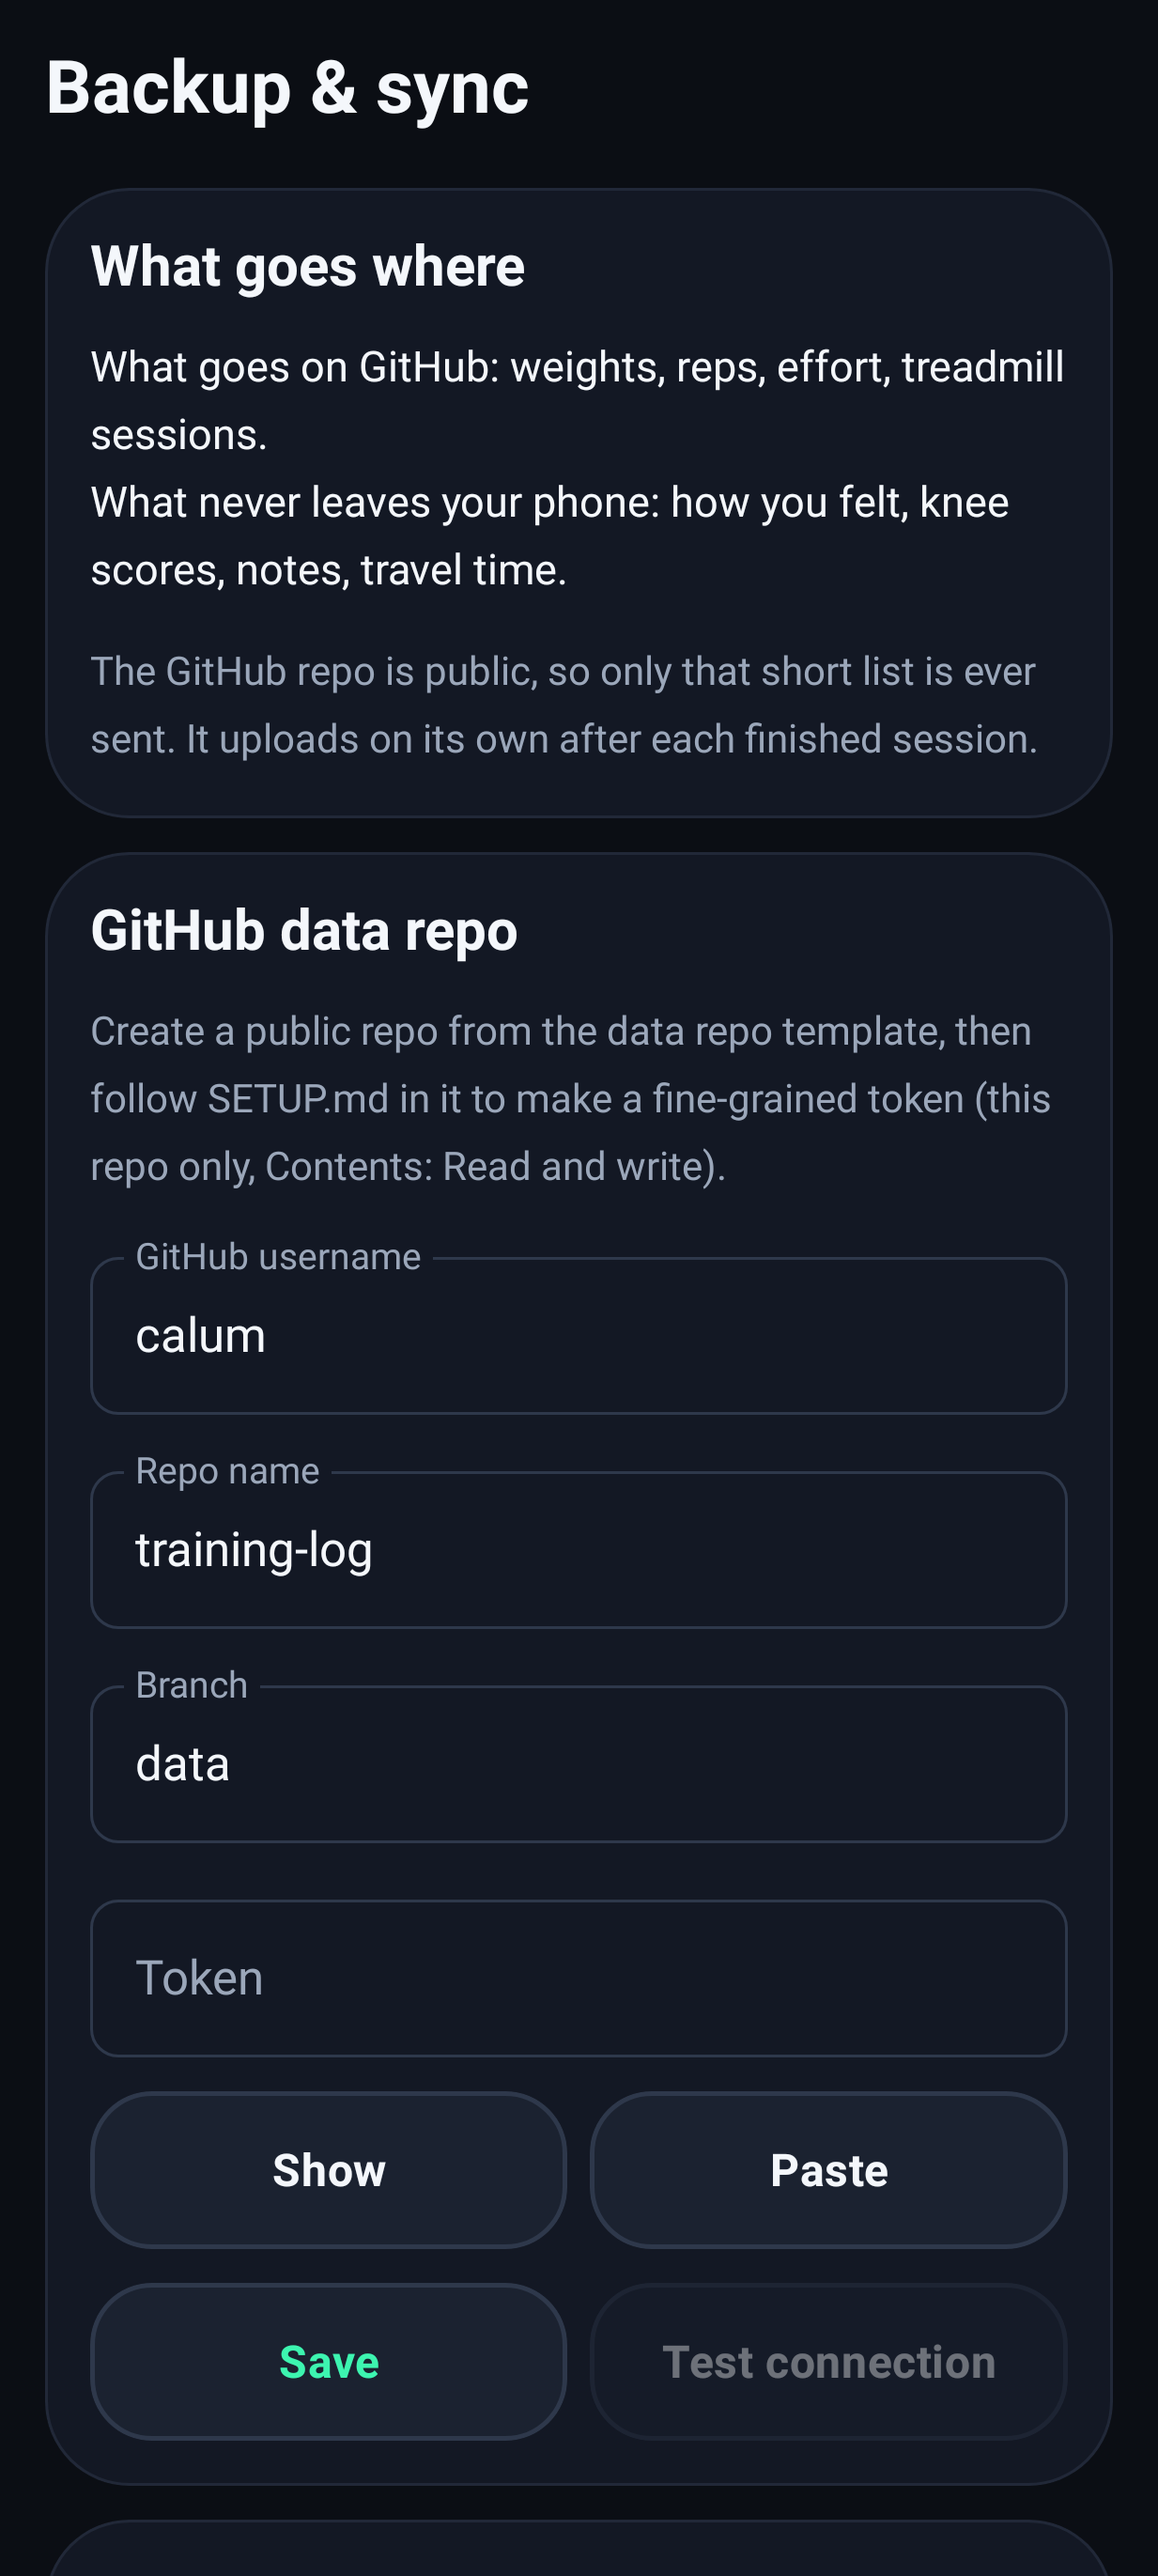
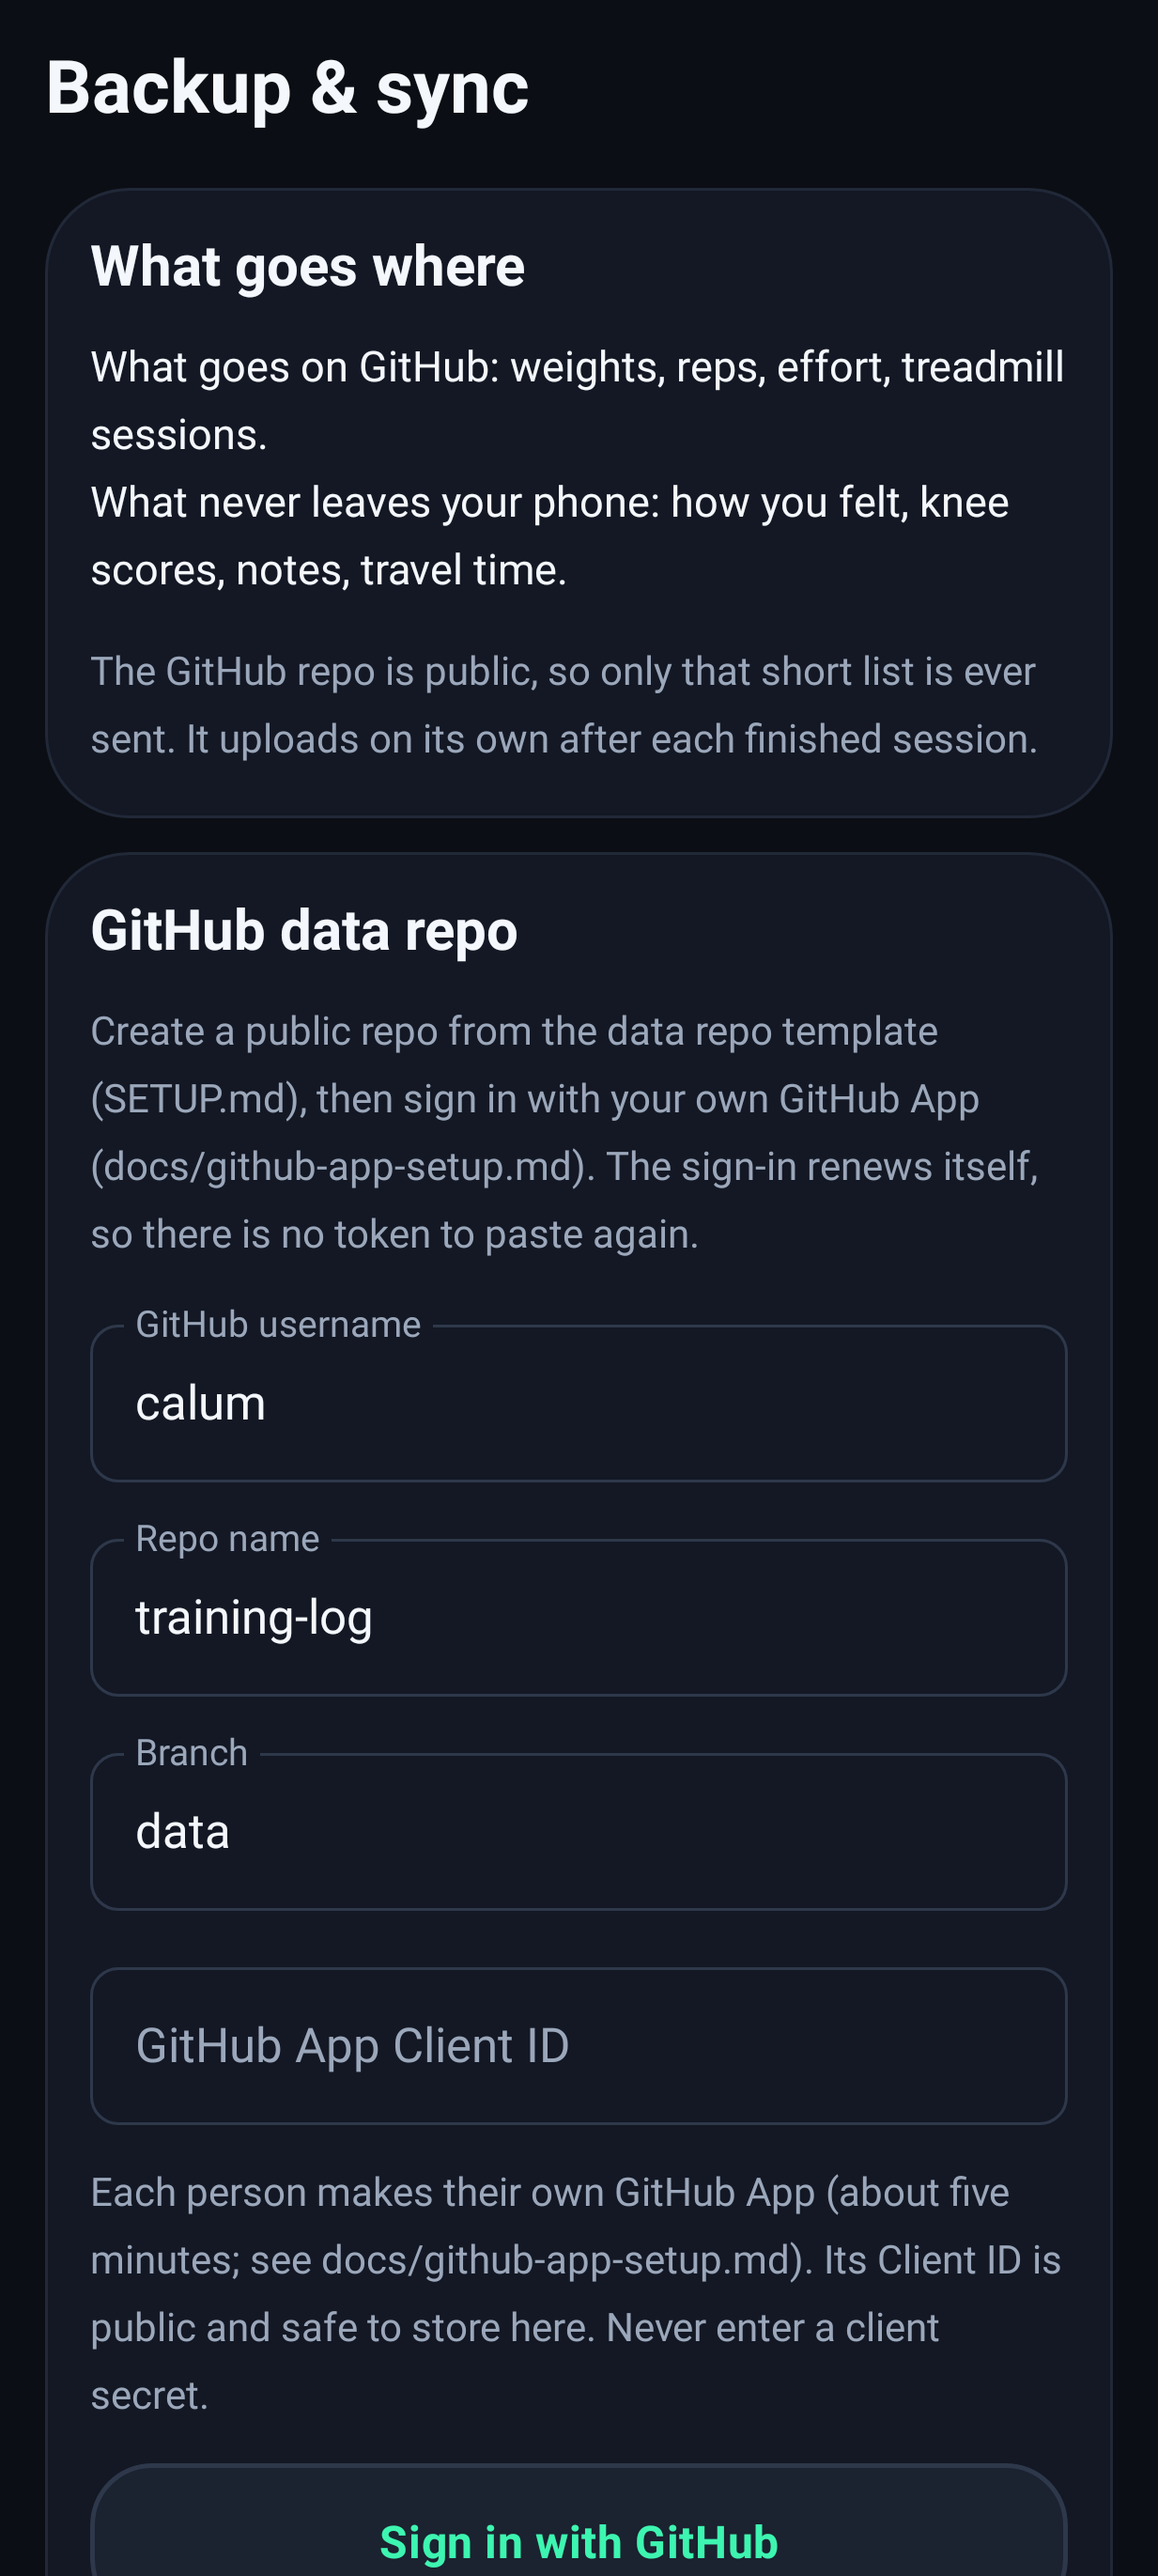
Release 0.5.0: core routine, reminders, GitHub device sign-in, design pass
Claude-Session: https://claude.ai/code/session_01USUEX2X7VDondPJZM1ea1D

Changed region(s): [[0.0616, 0.403, 0.9246, 1.0], [0.8938, 0.558, 0.9246, 0.589], [0.8938, 0.496, 0.9246, 0.527]]

diff --git a/README.md b/README.md
@@ -35,6 +35,13 @@ Personal progressive training app for Android (Pixel 6a). Asks how much time and
 - **Treadmill reliability**: audible beeps over YouTube (audio focus ducking), catch-up after stalls, notification and picture-in-picture buttons for pause and +/-30 s. On-phone checklist in `docs/treadmill-testing.md`.
 - **Custom exercises** remember their movement group.
 
+## Added in v0.5
+
+- **Guided core routine**: 10-30 minute knee-friendly mat sessions with timed work/rest, form cues and beeps; varies every time.
+- **Optional gentle reminder** (off by default, never guilt-based) and badges that follow your Settings targets.
+- **GitHub device sign-in** (setup: `docs/github-app-setup.md`), restore of raw numbers from GitHub, and deletions now synced.
+- **Design pass** from rendered screenshots: compact gym sets, readable forecast chart, distinct badges, tidier Settings and treadmill setup. Regenerate screenshots with `gradle :app:recordRoborazziDebug` (see `docs/screenshots/README.md`).
+
 Not yet built: training blocks, in-app settings for increments and starting weights.
 
 ## Starting weights are placeholders
